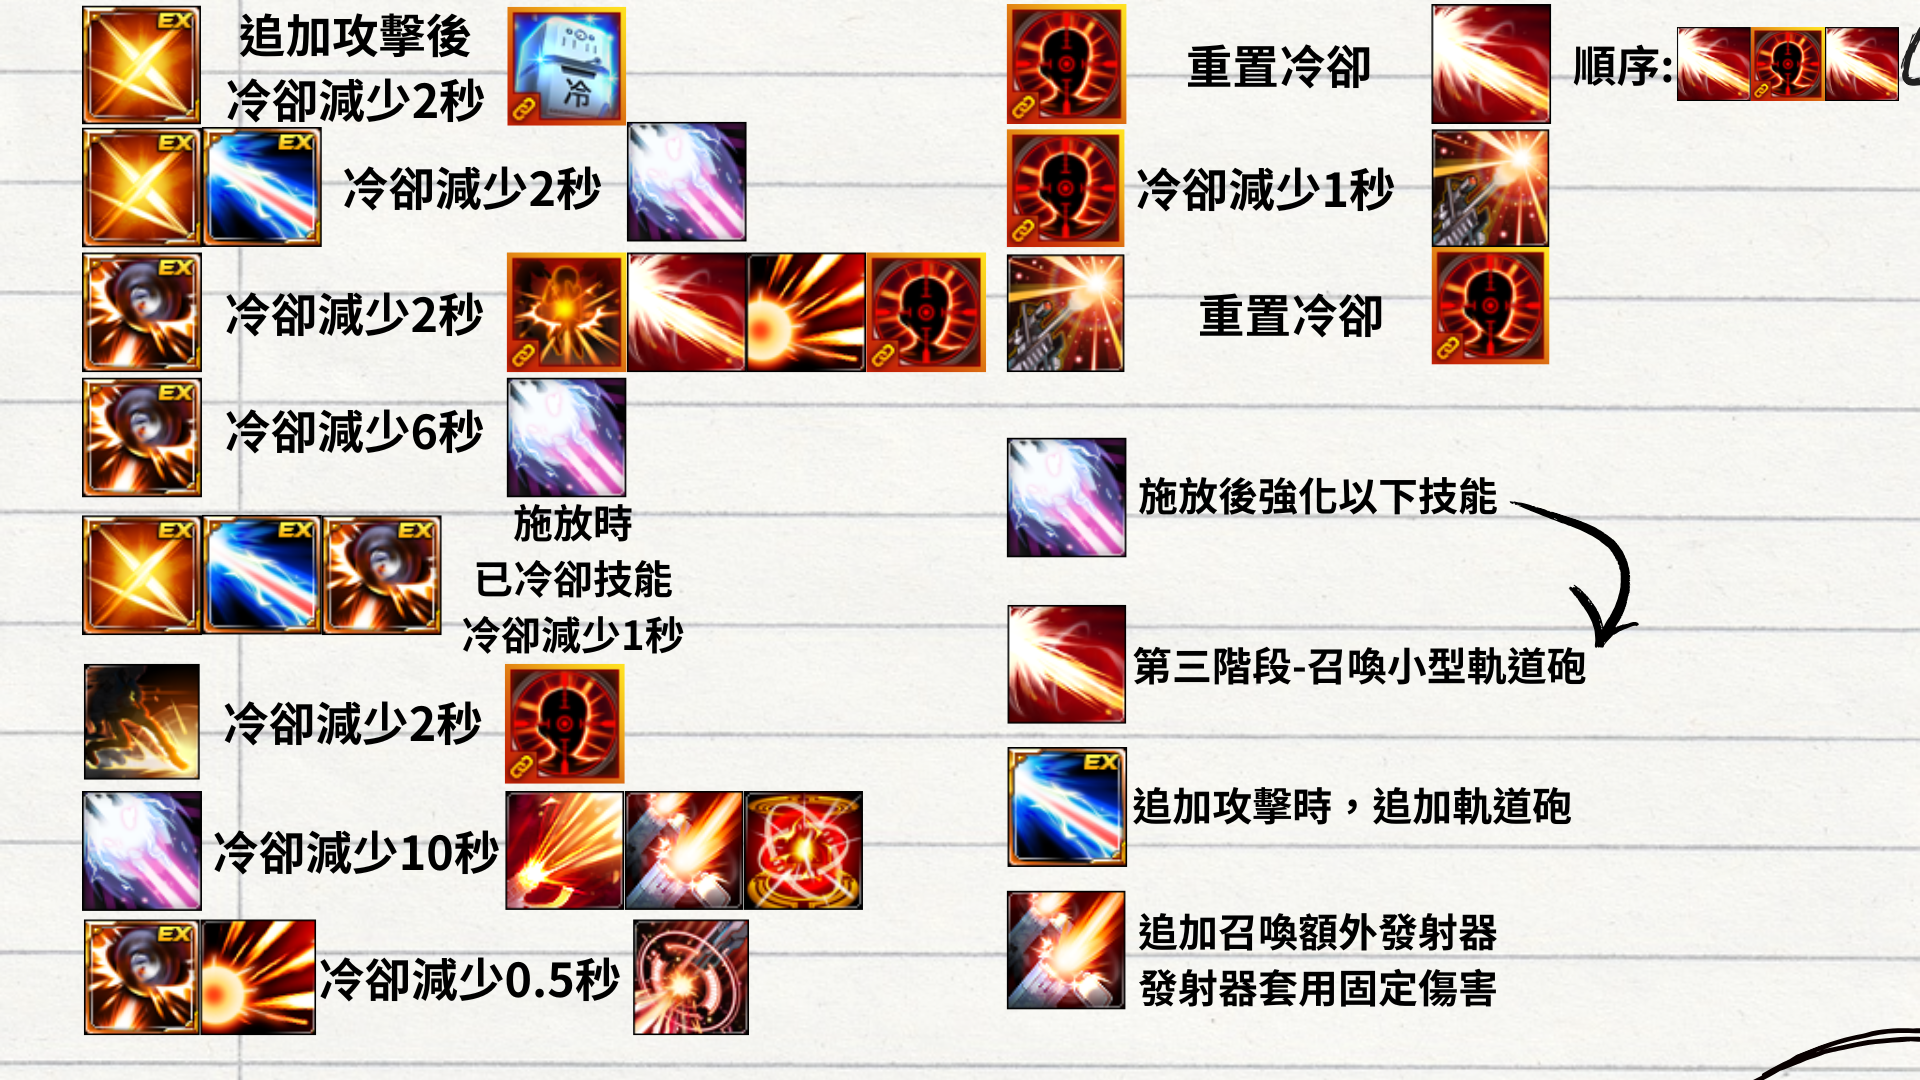
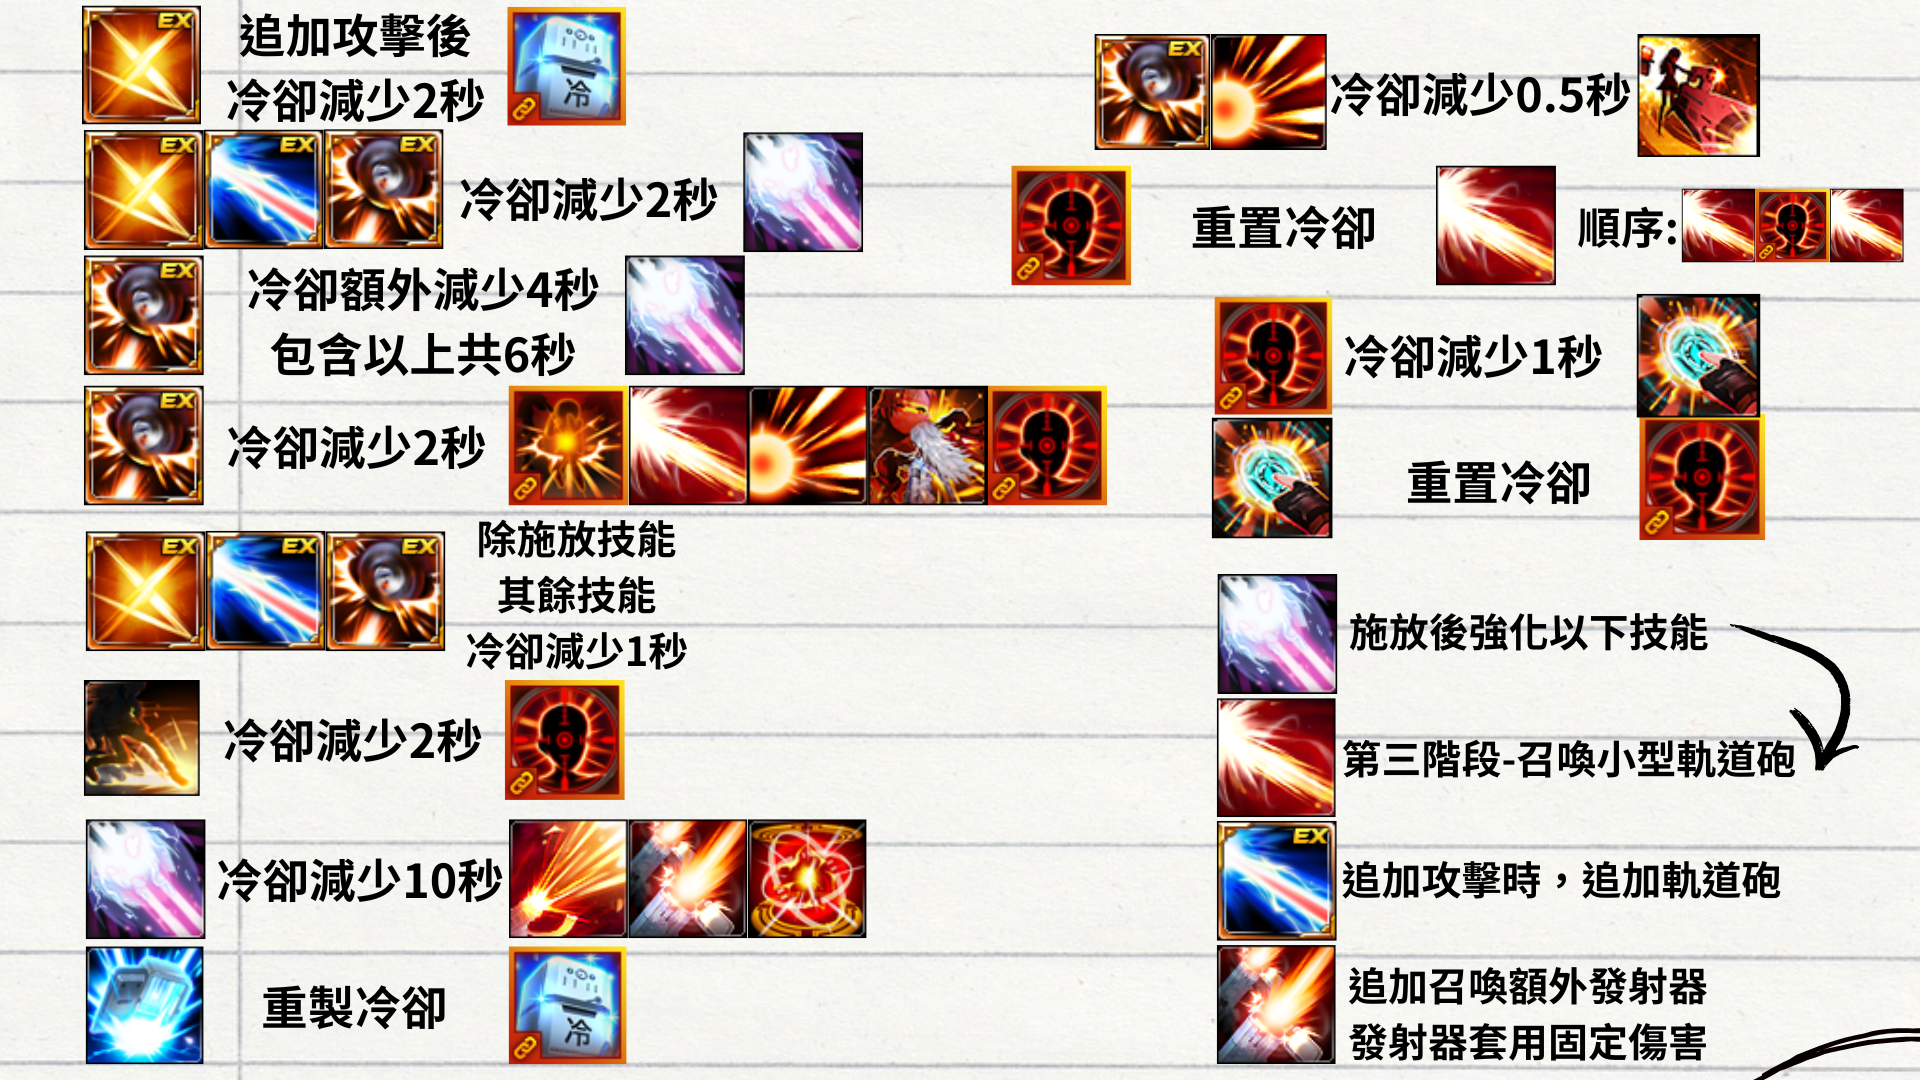
1

diff --git a/characters/tina.html b/characters/tina.html
@@ -552,12 +552,11 @@ EX技能施放時，會充能2個【過熱】<br>
         <summary>接法攻略</summary>
         <p>
 <img src="../data/skill/100/09.png" width="800" height="800"><br>
-<img src="../data/skill/100/09_1.png" width="800" height="800"><br>
 <h4 style="font-size:25px;">
-開場先疊滿10層戰場適應<br>
 <img src="../data/skill/09/A15.png">以下簡化為主<br>
-<img src="../data/skill/09/A3.png">都需施放完整<br>
-<img src="../data/skill/09/A12_1.png">以脫手為主，在地板+下鍵<br>
+<img src="../data/skill/09/A3.png">需完整施放<br>
+<img src="../data/skill/09/A2.png"><img src="../data/skill/09/A9.png">特效出來後即可脫手<br>
+<img src="../data/skill/09/A12-1.png">以脫手為主，在地板+下鍵<br>
 <img src="../data/skill/09/A11.png"><img src="../data/skill/09/A1.png">配合，辦法見下圖<br>
 <img src="../data/char video/tina_1.gif">
 </h4>
